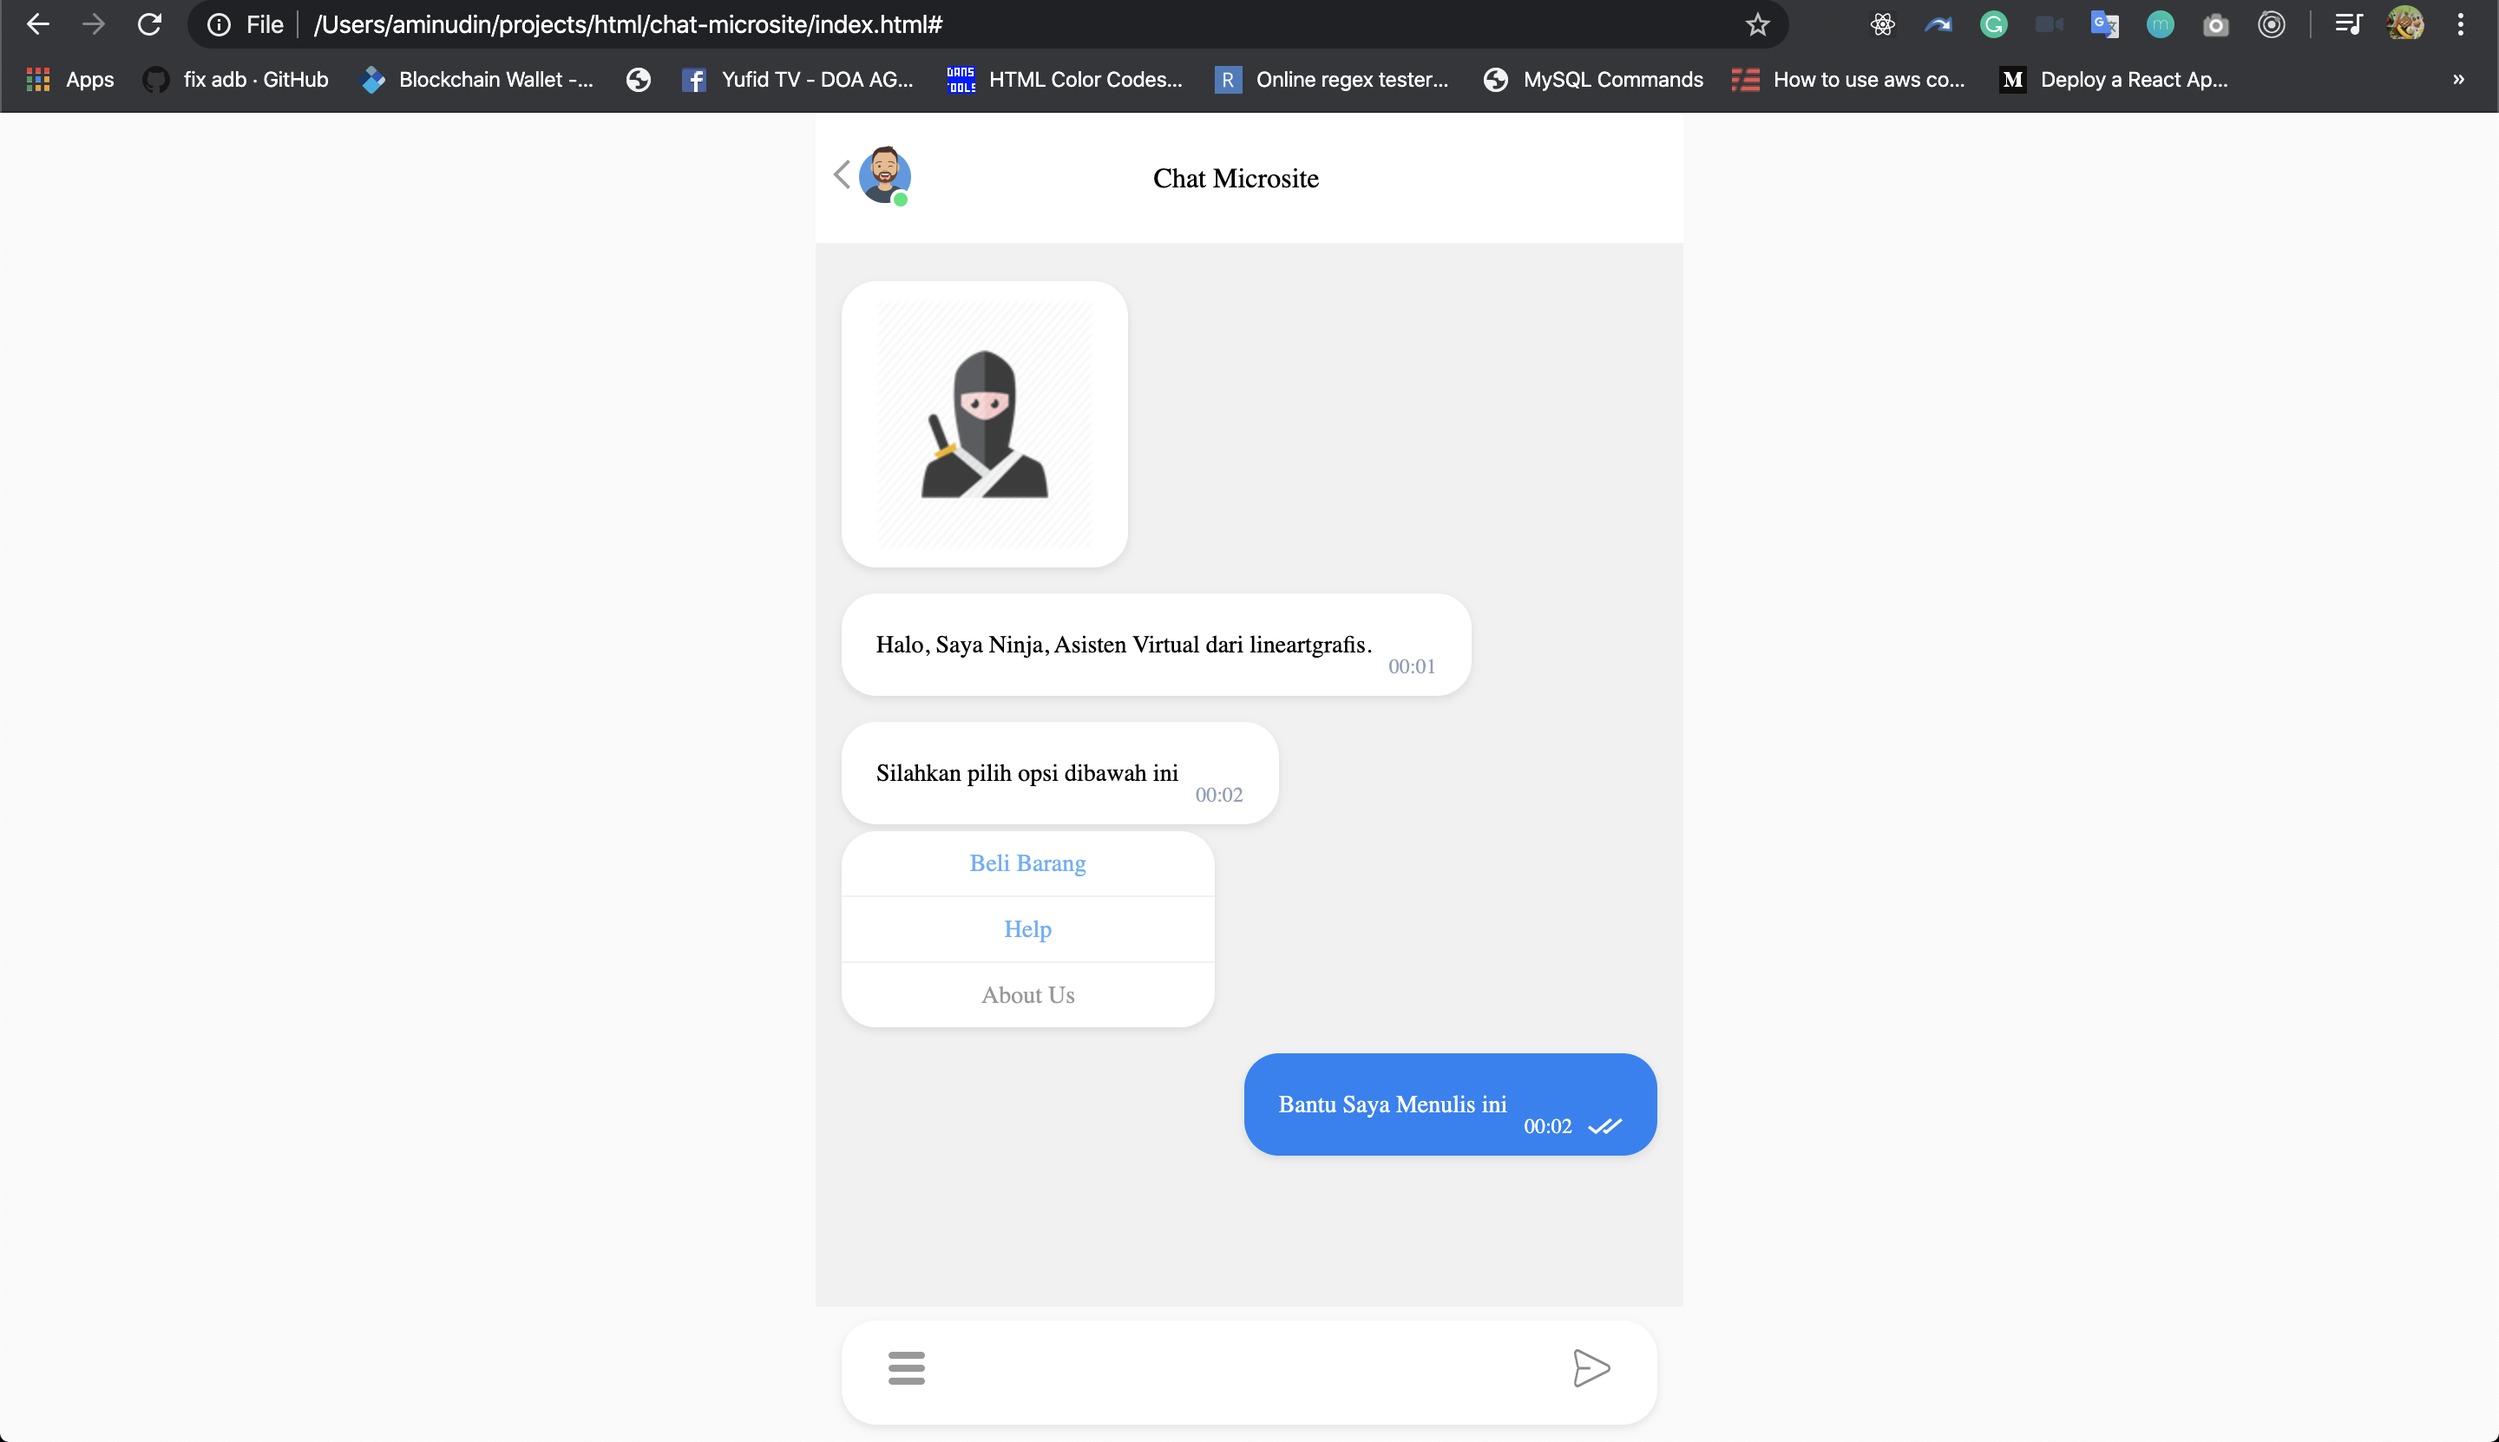
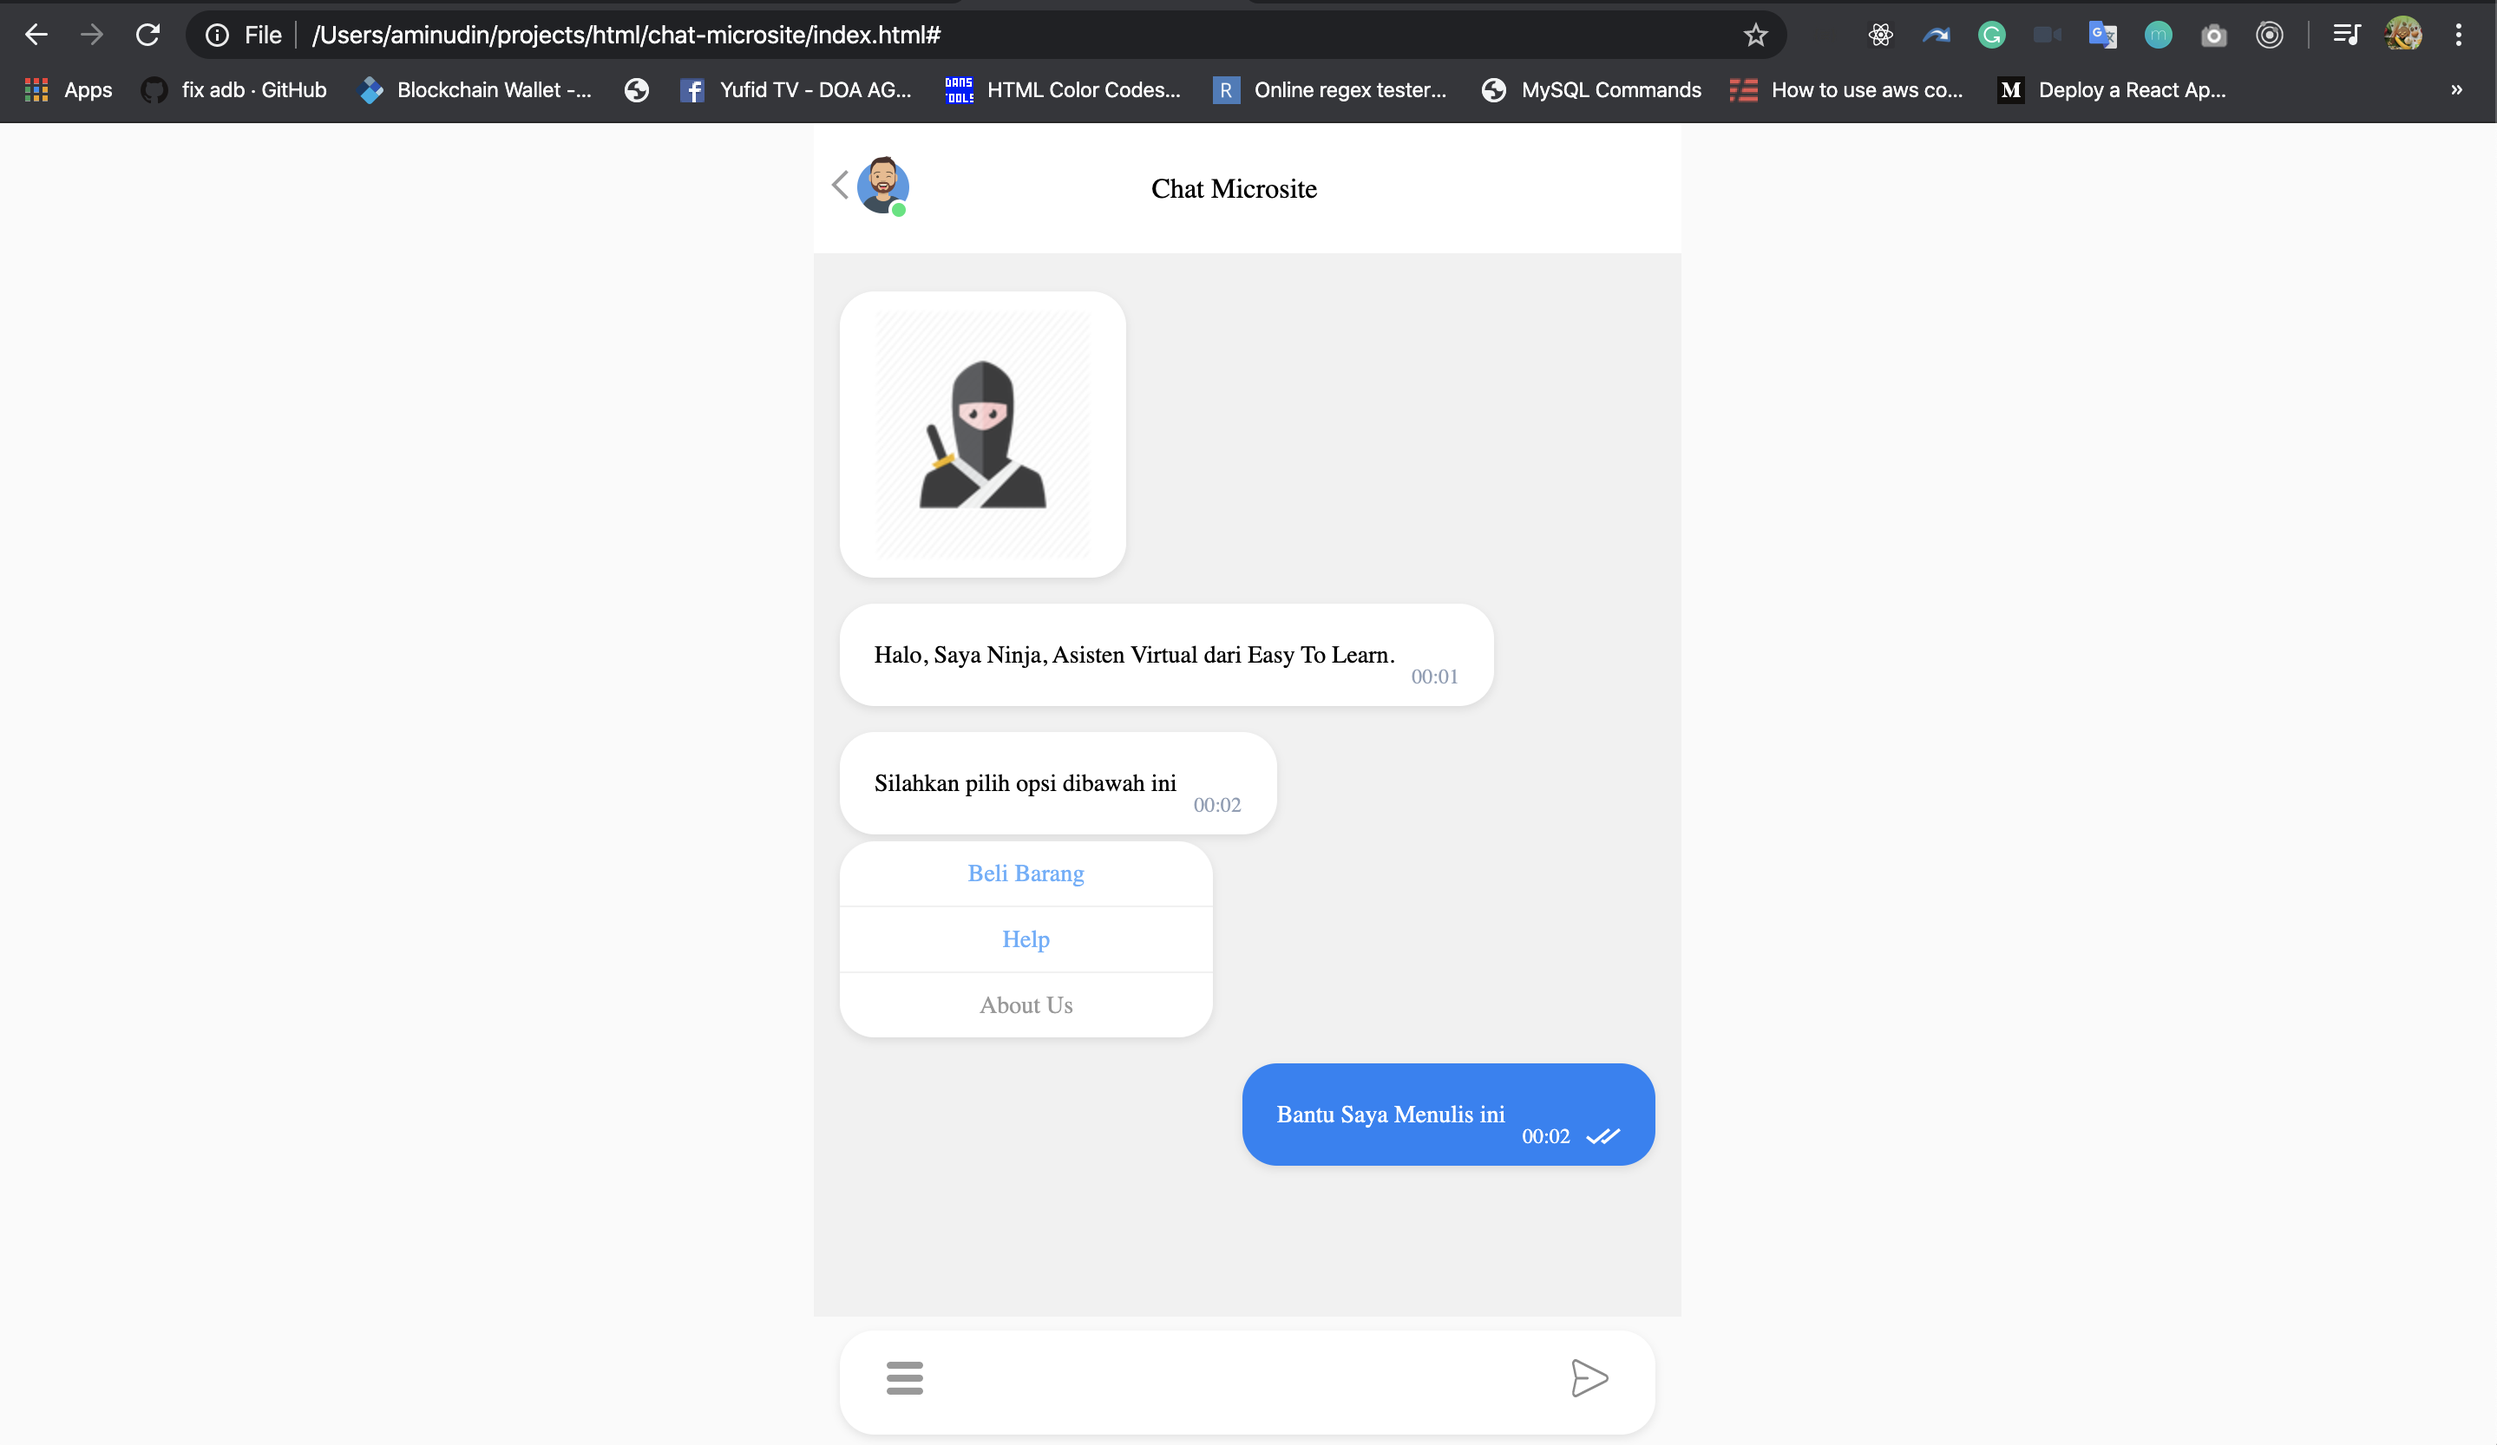
init

diff --git a/index.html b/index.html
@@ -47,7 +47,7 @@
                         <div class="chat-item-post chat-item-post--in bubble-chat-seller">
                             <div class="chat-message wrap-message">
                                 <div style="display:flex; flex-direction:row;align-items:center;justify-content:center;">
-                                    <span class="chat-message__text">Halo, Saya Ninja, Asisten Virtual dari lineartgrafis.</span>
+                                    <span class="chat-message__text">Halo, Saya Ninja, Asisten Virtual dari Easy To Learn.</span>
                                     <span class="chat-info__time" style="margin-left: 10px;margin-top:25px;">00:01</span>
                                 </div>
                             </div>
